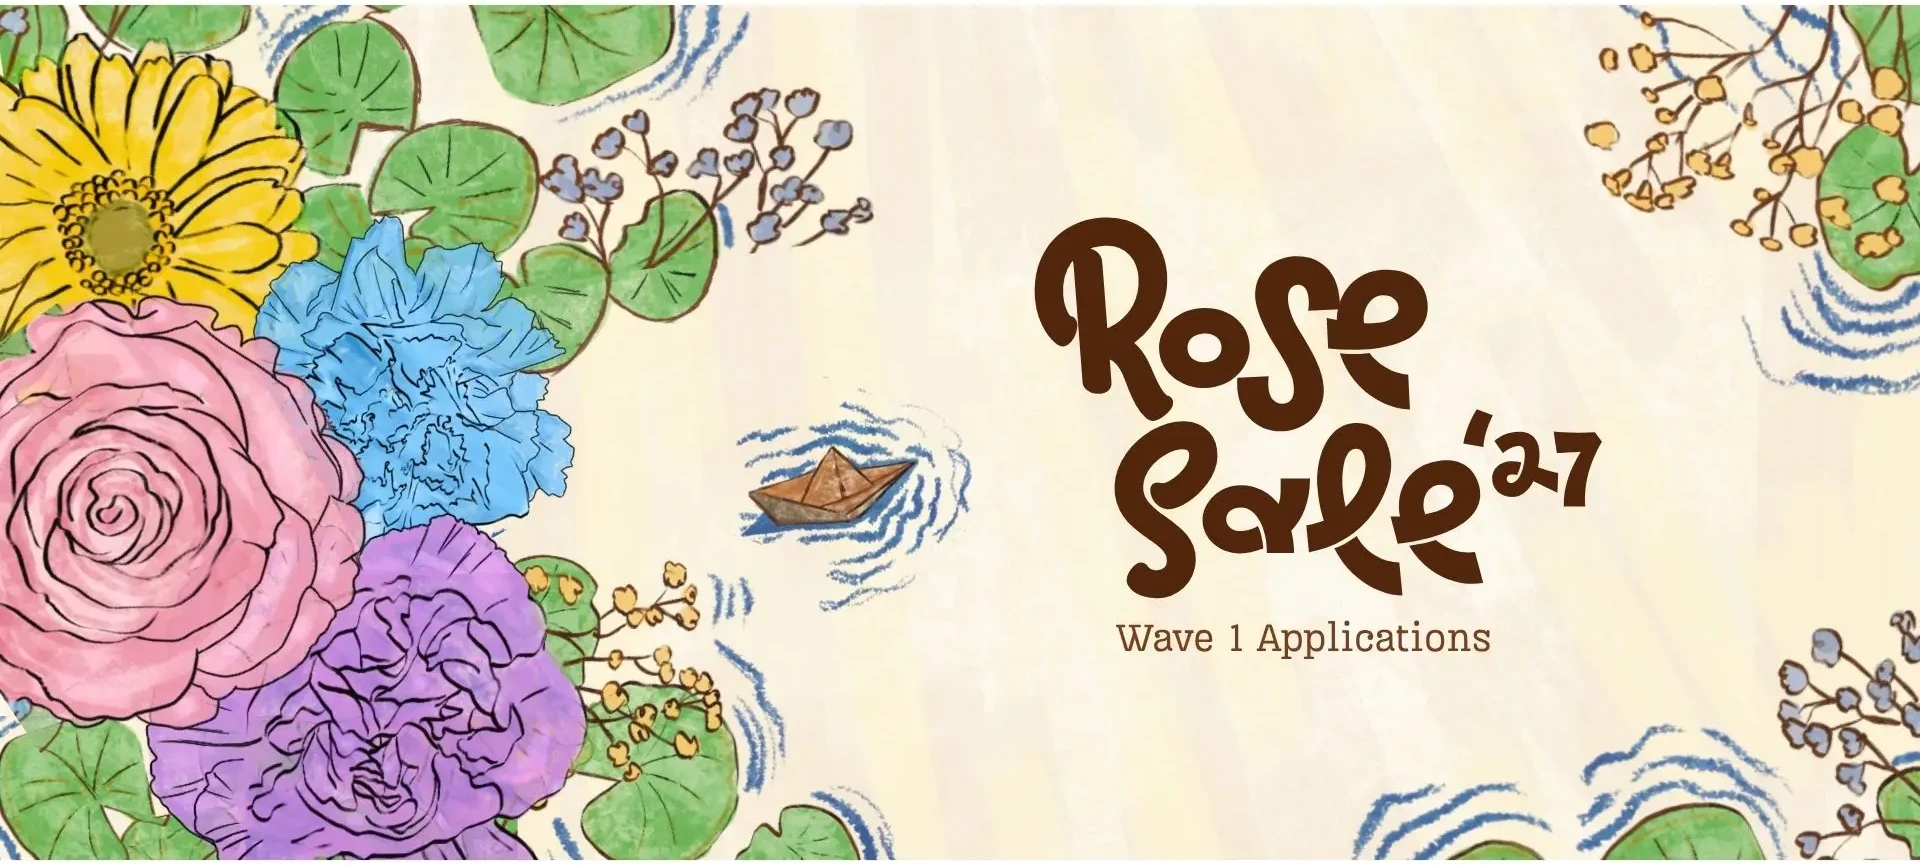
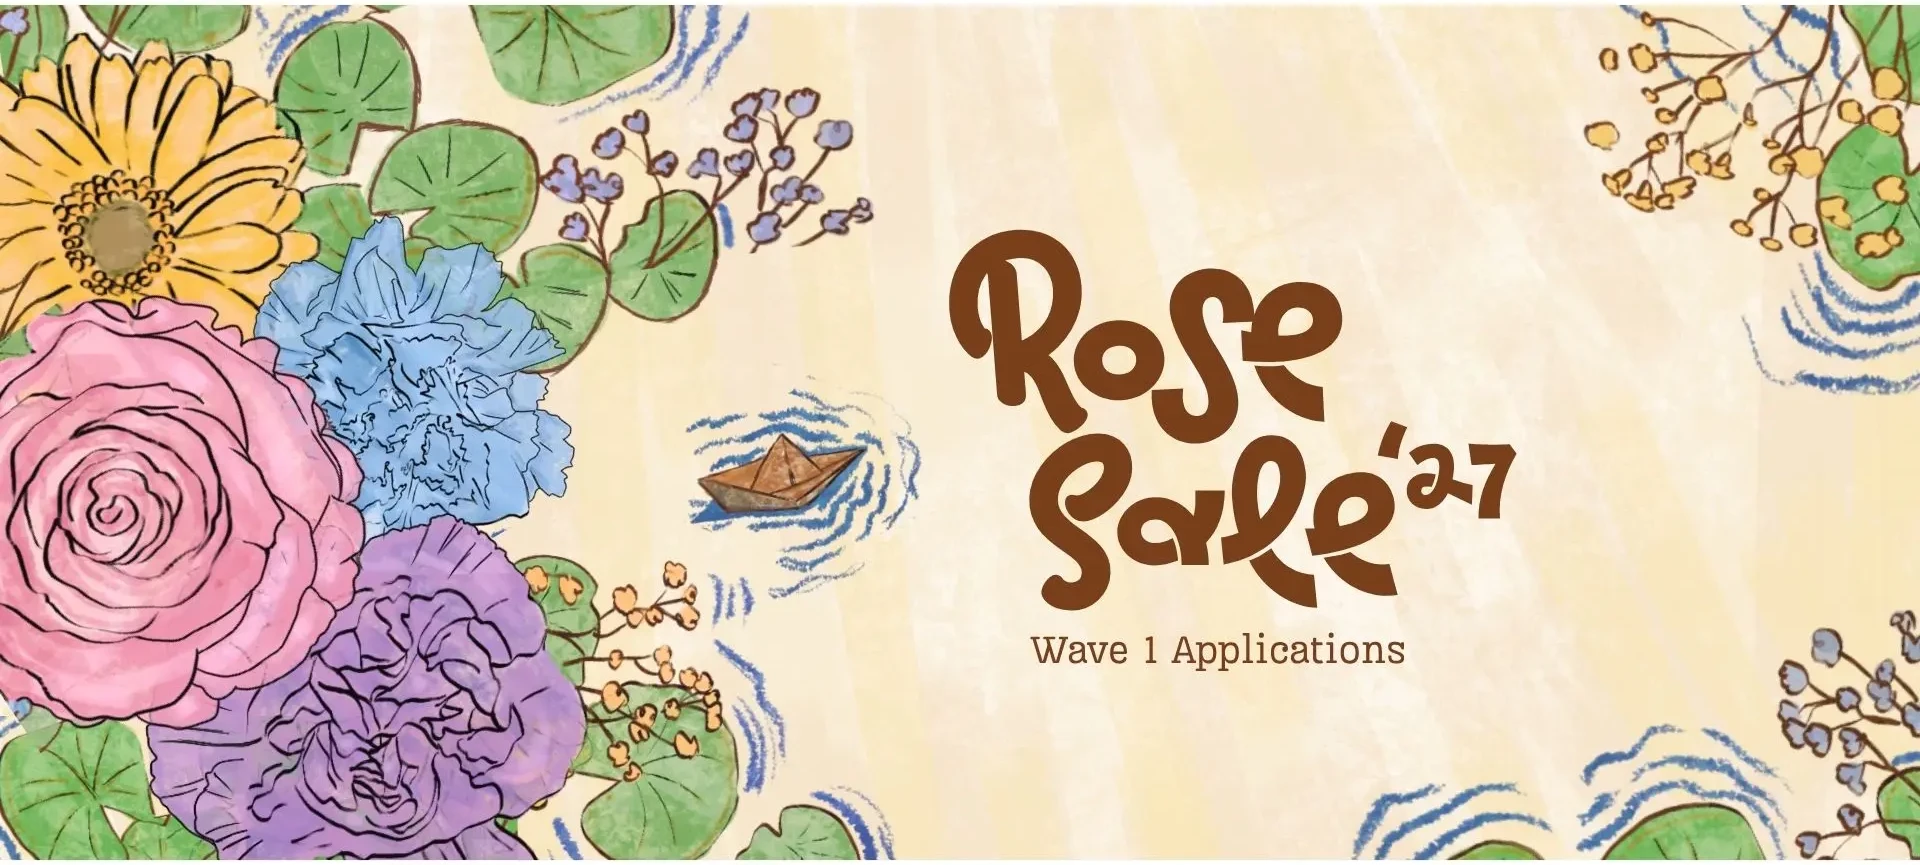
Update RS's header to the latest version and rebuild Contact Us to match the doc exactly
- Replaces rs-hero.webp with the updated 9/10/26 header art (used by both
  RS's own page and the project card, which share the same file) and
  removes the now-redundant rs-hero-desktop.webp / responsive hero split —
  there's only one header now, so the dual-crop treatment no longer applies.
- RS's Contact Us no longer uses the shared per-contact circular-photo grid
  every other project page uses. Its own doc pairs both PMs under a single
  shared candid photo and caption ("In Rose Sale, we will always have
  drinks (Chagee)!") instead of individual headshots, so that's reproduced
  as-is, with Chels and Ailyse in the doc's own left-to-right order.

diff --git a/src/app/internal/cta-wave1/rose-sale/page.tsx b/src/app/internal/cta-wave1/rose-sale/page.tsx
@@ -2,7 +2,6 @@ import type { Metadata } from "next";
 import Image from "next/image";
 import { Container } from "@/components/ui/container";
 import { Reveal } from "@/components/motion/reveal";
-import { SkeletonImage } from "@/components/ui/skeleton-image";
 import { ButtonLink } from "@/components/ui/button-link";
 import { RichParagraphs } from "@/components/internal/rich-text";
 import { Timeline } from "@/components/internal/timeline";
@@ -18,14 +17,6 @@ export const metadata: Metadata = {
   title: "Rose Sale — Core Team Applications",
   robots: { index: false, follow: false },
 };
-
-function initials(name: string): string {
-  return name
-    .split(" ")
-    .map((part) => part[0])
-    .join("")
-    .toUpperCase();
-}
 
 function Heading({ children }: { children: React.ReactNode }) {
   return (
@@ -73,27 +64,12 @@ export default function RoseSaleProjectPage() {
               "radial-gradient(60% 55% at 85% 0%, color-mix(in srgb, var(--dept-accent) 20%, transparent) 0%, transparent 65%)",
           }}
         />
-        {/* Below `lg`, the taller crop (more headroom around the flowers)
-            reads better full-bleed; `lg`+ switches to a shorter, wider crop
-            of the same artwork so the banner doesn't run too tall next to
-            the page's own content width. */}
-        <Reveal className="lg:hidden">
+        <Reveal>
           <Image
             src={asset(project.heroImage.src)}
             alt={project.heroImage.alt}
             width={1920}
             height={865}
-            priority
-            data-reveal
-            className="max-h-[60vh] w-full object-cover"
-          />
-        </Reveal>
-        <Reveal className="hidden lg:block">
-          <Image
-            src={asset("/internal/cta-wave1/rs-hero-desktop.webp")}
-            alt={project.heroImage.alt}
-            width={1920}
-            height={498}
             priority
             data-reveal
             className="max-h-[60vh] w-full object-cover"
@@ -321,25 +297,27 @@ export default function RoseSaleProjectPage() {
       {/* Flat white — last section, footer sits directly below. */}
       <section className="bg-white py-8 sm:py-10">
         <Container>
-          <Reveal className="mx-auto w-full max-w-3xl text-left">
+          <Reveal className="mx-auto w-full max-w-2xl text-left">
             <Heading>✉ Contact us!</Heading>
-            <div className="mt-6 grid gap-6 sm:grid-cols-2">
+            {/* RS's own doc pairs its two PMs under one shared candid photo
+                and caption rather than individual headshots — reproduced
+                as-is here instead of the other projects' per-contact photo
+                grid. */}
+            <div className="mt-6 flex flex-col items-center gap-4 text-center" data-reveal>
+              <div className="relative aspect-square w-full max-w-xs overflow-hidden rounded-2xl shadow-[var(--shadow-md)]">
+                <Image
+                  src={asset("/internal/cta-wave1/rs-contact-photo.webp")}
+                  alt="Chels and Ailyse sharing drinks at a restaurant"
+                  fill
+                  sizes="320px"
+                  className="object-cover"
+                />
+              </div>
+              <p className="prose-body text-muted-foreground">In Rose Sale, we will always have drinks (Chagee)!</p>
+            </div>
+            <div className="mt-8 grid gap-6 sm:grid-cols-2">
               {project.contacts.map((contact) => (
-                <div key={contact.name} className="flex flex-col items-center gap-2 text-center" data-reveal>
-                  {contact.photo ? (
-                    <SkeletonImage
-                      src={asset(contact.photo)}
-                      alt={contact.name}
-                      width={112}
-                      height={112}
-                      containerClassName="h-28 w-28 rounded-full"
-                      className="h-28 w-28 rounded-full object-cover"
-                    />
-                  ) : (
-                    <div className="flex h-28 w-28 items-center justify-center rounded-full bg-dept-accent/15">
-                      <span className="display text-2xl text-dept-ink/60">{initials(contact.name)}</span>
-                    </div>
-                  )}
+                <div key={contact.name} className="flex flex-col items-center gap-1 text-center" data-reveal>
                   <p className="font-bold text-dept-ink">{contact.name}</p>
                   <p className="text-sm text-muted-foreground">{contact.role}</p>
                   <p className="text-sm">

diff --git a/src/lib/cta-projects.ts b/src/lib/cta-projects.ts
@@ -1129,18 +1129,18 @@ export const ROSE_SALE: CtaProjectDetail = {
   ],
   contacts: [
     {
-      name: "Ailyse Lim",
-      role: "Rose Sale Project Manager",
-      email: "ailyse.erlisha.lim@student.ateneo.edu",
-      facebook: "https://fb.com/lyse.lim.3",
-      photo: "/internal/cta-wave1/rs-testimonial-ailyse.webp",
-    },
-    {
       name: "Chels Dagdag",
       role: "Rose Sale Project Manager",
       email: "chelsea.linder.dagdag@student.ateneo.edu",
       facebook: "https://fb.com/chelsea.dagdag.9",
       photo: "/internal/cta-wave1/rs-pm-chels.webp",
+    },
+    {
+      name: "Ailyse Lim",
+      role: "Rose Sale Project Manager",
+      email: "ailyse.erlisha.lim@student.ateneo.edu",
+      facebook: "https://fb.com/lyse.lim.3",
+      photo: "/internal/cta-wave1/rs-testimonial-ailyse.webp",
     },
   ],
 };
